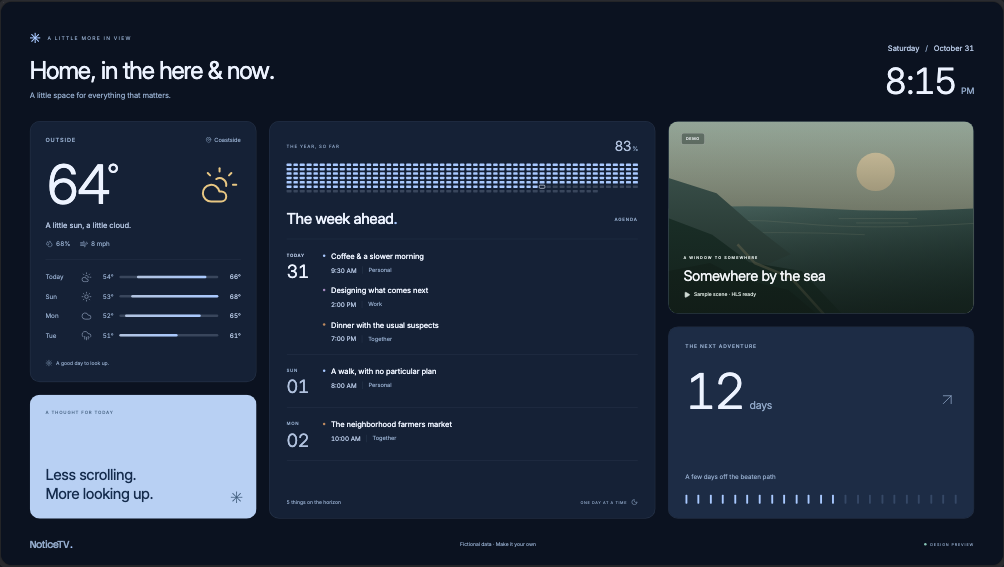
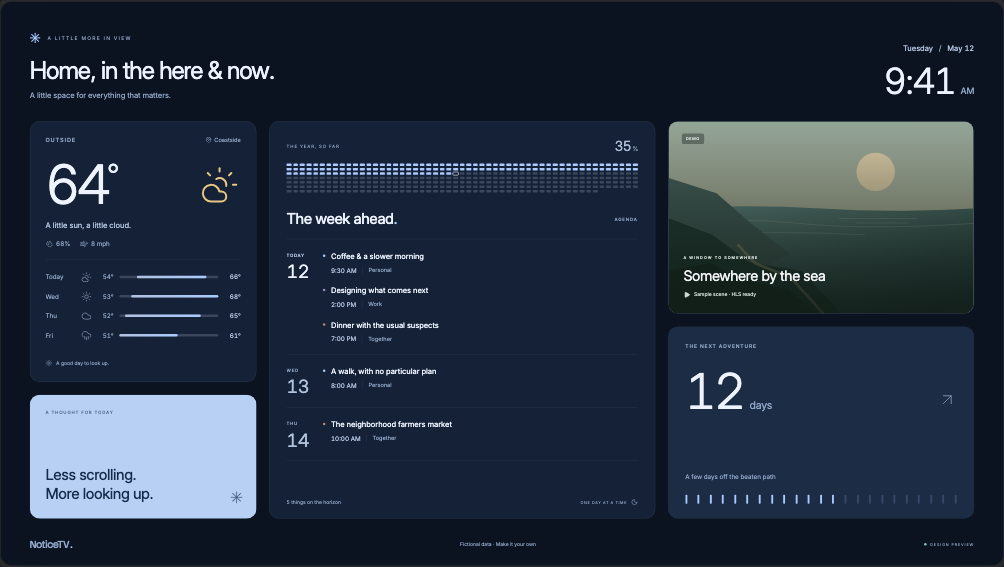
docs: refresh dashboard README with screenshots and diagrams

diff --git a/README.md b/README.md
@@ -2,71 +2,151 @@
 
 **A little more in view.**
 
-NoticeTV is a self-hosted dashboard for the screen in your room. Bring together the weather,
-your plans, a live video stream, and the things worth looking up for. Arrange it in a browser,
-preview the whole screen, and publish when it feels right.
+A self-hosted dashboard for the screen in your room. Bring together the weather, your plans,
+live video, and the things worth looking up for. Configure it from your phone or laptop,
+then publish it to your TV.
 
-![The NoticeTV editor with fictional weather, plans, an illustrated stream preview, a countdown, and a note.](docs/images/noticetv-editor.png)
+[![The NoticeTV display in Graphite, showing weather, an agenda, an illustrated stream, a note, and a countdown.](docs/images/noticetv-dashboard.png)](docs/images/noticetv-dashboard.png)
 
-## The dashboard
+_Screenshots use fictional demo data. The stream tile is an illustration; configured HLS streams play video._
 
-- **A visual editor.** Add widgets, choose their sizes, reorder them, and preview a 16:9 display.
-- **Themes.** Choose Graphite, Midnight, Paper, Ember, or Moss. Graphite is the neutral default;
-  Paper gives the dashboard a light appearance. The editor stays neutral.
-- **Weather.** Search for a location and connect current conditions and a five-day forecast from
-  [Open-Meteo](https://open-meteo.com/).
-- **HLS video.** Connect a browser-accessible `.m3u8` stream. Playback starts muted, fits its
-  widget, and retries after interruptions. Uses native HLS where available and hls.js elsewhere.
-- **An agenda, notes, countdowns, and world clocks.** Enter plans in NoticeTV, keep a thought in
-  view, or see the time somewhere else.
-- **Drafts and publishing.** Save work without changing the TV. Connected displays pick up a
-  publication within ten seconds and retain the running view during a server interruption.
-- **Screen pairing.** A single-use code connects a screen with viewing access. Editing requires
-  the server's editor key.
-- **Portable layouts.** Import and export a versioned JSON document.
+[Try it locally](#try-it-locally) · [Hosting guide](app/README.md) · [Install NoticeTV OS](docs/operating-system.md) · [Contribute](CONTRIBUTING.md)
 
-The `/demo` workspace uses fictional data and an original illustrated scene; it starts without external
-data requests. Real dashboards start with empty connections. The agenda is entered manually;
-external calendar sync and Home Assistant connections are not implemented in this version.
+## Make it your own
 
-## Run locally
+Choose widgets, connect their sources, and arrange the view. Change sizes, reorder widgets,
+and preview the whole screen before publishing. Export a layout to keep it or share it with a friend.
 
-Requires **Node.js 22.12 or newer** and npm. In the `app/` directory:
+[![The browser editor with a live dashboard canvas, widget controls, and the theme picker.](docs/images/noticetv-editor.png)](docs/images/noticetv-editor.png)
 
-```sh
-npm ci
-npm run dev
+| Widget          | What it brings to the screen                                                                                                             |
+| --------------- | ---------------------------------------------------------------------------------------------------------------------------------------- |
+| **Weather**     | Current conditions and a five-day forecast from [Open-Meteo](https://open-meteo.com/), with city search and Celsius/Fahrenheit settings. |
+| **Live video**  | HLS `.m3u8` streams, muted autoplay, fit/fill sizing, and recovery after playback interruptions.                                         |
+| **Agenda**      | Plans you enter in NoticeTV, a date rail, and a day-by-day view of the year's progress.                                                  |
+| **Note**        | Plain text for reminders, a message, or a thought for the day.                                                                           |
+| **Countdown**   | The days remaining until something you're looking forward to.                                                                            |
+| **World clock** | Another time zone, using your preferred 12- or 24-hour clock.                                                                            |
+
+[See the widget collection](docs/images/noticetv-widgets.png) · [See the phone editor](docs/images/noticetv-editor-phone.png)
+
+HLS streams must be reachable from the screen and permit browser playback from your dashboard's
+address. Media plays directly in the browser; NoticeTV does not proxy or transcode it.
+
+## Find your theme
+
+Five palettes cover the whole dashboard: text, cards, notes, charts, and display background.
+The editor stays neutral while you choose. Graphite is the default; cursor hiding is a separate
+display setting and is off by default.
+
+| Graphite · neutral charcoal                                                                                          | Paper · light surfaces                                                                                      |
+| -------------------------------------------------------------------------------------------------------------------- | ----------------------------------------------------------------------------------------------------------- |
+| [![The Graphite dashboard theme.](docs/images/noticetv-theme-graphite.png)](docs/images/noticetv-theme-graphite.png) | [![The Paper dashboard theme.](docs/images/noticetv-theme-paper.png)](docs/images/noticetv-theme-paper.png) |
+
+Also available: [Midnight](docs/images/noticetv-theme-midnight.png) for deep navy,
+[Ember](docs/images/noticetv-theme-ember.png) for warm charcoal and copper, and
+[Moss](docs/images/noticetv-theme-moss.png) for earthy greens.
+
+## How it fits together
+
+Run one NoticeTV server on your own machine. Open its editor on your phone or laptop and its
+display page on the TV. The server stores the dashboard; each browser loads weather and media
+directly from the configured sources.
+
+```mermaid
+flowchart LR
+    editor("Phone or laptop<br/>Dashboard editor") -->|"Save and publish"| server("NoticeTV server<br/>Saved dashboard")
+    server -->|"Published layout"| screen("Paired TV<br/>Browser or NoticeTV OS")
+    sources("Weather and HLS<br/>Data sources") -->|"Load directly"| screen
+    classDef default fill:#f5f6f8,stroke:#cfd6e2,color:#283346,stroke-width:1px,filter:none;
+    classDef host fill:#e5edf9,stroke:#b8c9e3,color:#233858;
+    class server host;
 ```
 
-Open **http://localhost:3000/demo** to explore the editor. To save a real dashboard, open
-**http://localhost:3000/** and enter the key printed by this command in another terminal:
+The dashboard works in a browser independently of the operating system. **NoticeTV OS** is the
+appliance option: it turns a mini PC into a display that boots straight into your dashboard and
+recovers from browser and network problems.
 
-```sh
-npm run access-key
+## From draft to display
+
+1. **Build the view.** Choose widgets, sources, a layout, and a theme.
+2. **Preview or save a draft.** Keep working without changing the published screen.
+3. **Publish.** Connected screens pick up the new view within ten seconds.
+4. **Connect a screen.** Open your server's `/display` page on the TV and enter the code from
+   **Connect a screen** in the editor. Pairing can happen before or after the first publication.
+
+```mermaid
+flowchart LR
+    edit("Edit dashboard") --> draft("Save draft")
+    edit --> preview("Preview the draft")
+    edit -->|"Publish"| live("Published dashboard")
+    live --> screens("Paired screens update")
+    classDef default fill:#f5f6f8,stroke:#cfd6e2,color:#283346,stroke-width:1px,filter:none;
+    classDef published fill:#e5edf9,stroke:#b8c9e3,color:#233858;
+    class live published;
 ```
 
-The server binds to loopback by default. For Docker, access from another device, HTTPS,
-configuration, and the production build, see **[the dashboard guide](app/README.md)**.
+Editing requires the server's editor key. A pairing code gives a screen viewing access to the
+published dashboard. Codes work once and expire after five minutes. Use the address and code
+shown by your own server.
 
-## The TV appliance
+<img src="docs/images/noticetv-pairing.png" alt="The Connect a screen dialog showing a display address and a six-digit pairing code." width="490" />
 
-**NoticeTV OS** turns an Intel or AMD mini PC into an unattended display. It boots straight into
-a web dashboard, recovers from browser and network problems, and installs Linux security updates.
-It can show a NoticeTV dashboard or any other web page.
+The running display retains its last published layout during a server interruption and retries
+the connection. Starting or reloading a display still requires the server.
 
-The dashboard app is currently installed separately; the OS image does not bundle it. Existing
-OS installations and image releases keep their existing behavior.
+## Try it locally
 
-See **[the OS installation guide](docs/operating-system.md)** for the USB installer, hardware
-requirements, settings, and recovery behavior. Installing the OS erases the selected drive.
+Requires **Node.js 22.12 or newer** and npm. From a checkout of this repository:
+
+```sh
+npm --prefix app ci
+npm --prefix app run dev
+```
+
+Open **http://localhost:3000/demo** to explore the editor and sample widgets. The demo is temporary;
+use **Export layout** to keep a configuration you make there.
+
+To save a real dashboard, open **http://localhost:3000/**. In a second terminal, get the editor key:
+
+```sh
+npm --prefix app run access-key
+```
+
+Enter that key in the editor, connect your sources, and publish.
+
+The default server accepts connections from this computer. Before connecting a TV or phone,
+configure its network address using the [hosting guide](app/README.md#access-from-another-device).
+The guide also covers [Docker](app/README.md#docker), HTTPS, persistent storage, and backups.
+
+## Add the TV appliance
+
+NoticeTV OS runs on an Intel or AMD mini PC connected to a TV. It starts Chromium full screen,
+recovers from browser and network problems, and installs Linux security updates. It can show
+a NoticeTV dashboard or any other web page.
+
+**The app and OS are installed separately.** The OS image does not currently bundle the dashboard
+server. Install the server on a machine of your choice, then point the display at its `/display` page.
+
+See the **[OS installation guide](docs/operating-system.md)** for the USB installer, hardware
+requirements, and appliance settings. Installing the OS erases the selected drive.
+
+## Current scope
+
+This is early software with one dashboard per server and multiple paired screens. Real dashboards
+start with empty source connections. Agenda events are entered manually; Home Assistant
+authentication and external calendar synchronization are not implemented in this version.
 
 ## Contributing
 
-NoticeTV is early software. Contributions should include clear behavior, appropriate local
-verification, and documentation. Read **[CONTRIBUTING.md](CONTRIBUTING.md)** for the development
-workflow and **[AGENTS.md](AGENTS.md)** for repository conventions.
+Read **[CONTRIBUTING.md](CONTRIBUTING.md)** for the development workflow and **[AGENTS.md](AGENTS.md)**
+for repository conventions. The [dashboard guide](app/README.md) describes the application structure,
+configuration, and checks. Tests use local fixtures rather than real homes, cameras, or live services.
+
+The screenshots are captured from the running app. See **[visual asset sources](docs/images/README.md)**
+for the capture command and diagram sources.
 
 ## License
 
-NoticeTV is free and open source under the **[GNU AGPL v3](LICENSE)**. Bundled fonts and
-dependencies retain their respective licenses; see [third-party notices](app/THIRD_PARTY_NOTICES.md).
+NoticeTV is free and open source under the **[GNU AGPL v3](LICENSE)**. Fonts and dependencies retain
+their respective licenses; see [third-party notices](app/THIRD_PARTY_NOTICES.md).

diff --git a/docs/images/README.md b/docs/images/README.md
@@ -1,0 +1,37 @@
+# Documentation visuals
+
+The main README shows the current dashboard application. `docs/operating-system.md` uses the
+separate appliance images and installer screenshots.
+
+## Dashboard screenshots
+
+From `app/`, with the locked dependencies installed:
+
+```sh
+npm run build
+npx playwright install chromium
+npm run screenshots
+```
+
+The capture script starts its own loopback server with a temporary data directory and key.
+It captures the actual editor, display preview, five themes, widget collection, phone editor,
+and pairing dialog. The date is fixed, the agenda and weather are fictional, and the video tile
+is the app's original illustration. The pairing dialog uses a fixed example code and expiry.
+Every external browser request is blocked. The browser,
+server, and temporary data are removed when capture finishes.
+
+The script writes ten PNGs into this directory. Review them after interface changes, then commit
+the updated images alongside the relevant documentation. The screenshots contain no data from a
+real installation. `NOTICETV_DOCS_PORT` selects another local port if the default, 3002, is busy.
+
+## Diagrams
+
+The two diagrams are Mermaid code blocks in the root `README.md`; GitHub renders them directly.
+They describe the server/editor/display relationships and the distinction between drafts,
+previews, and publication. Keep those blocks with the documentation they explain.
+
+## Appliance images
+
+`render.sh` builds the OS installation visuals from the HTML files in `src/` and screenshots
+from the existing VM tools. Its header documents the inputs. These assets are separate from
+the dashboard capture command and do not contact a real appliance.

diff --git a/AGENTS.md b/AGENTS.md
@@ -24,7 +24,7 @@ show the NoticeTV dashboard, NoticeOS's Wall, or any URL. The OS image does not 
 | `scripts/` | tools run from a developer's machine, e.g. `install-over-ssh.sh` |
 | `brand/` | the boot splash source: the lockup page, its font, the renderer |
 | `docs/` | tested hardware and its quirks; troubleshooting; how the image and installer are built |
-| `docs/images/` | the README's images and their sources; `render.sh` makes them from VM screenshots. `badges/` are shields.io badges saved into the repo: linked live, GitHub's image proxy times out on shields.io and shows them broken |
+| `docs/images/` | documentation images and provenance; `npm run screenshots` in `app/` captures the dashboard, `render.sh` renders appliance visuals from VM screenshots. Mermaid diagrams live in the root README. `badges/` are saved shields.io badges |
 
 ## Conventions
 

diff --git a/app/README.md b/app/README.md
@@ -193,6 +193,7 @@ To use an installed Google Chrome instead of downloading Playwright Chromium:
 PLAYWRIGHT_CHANNEL=chrome npm run test:browser
 ```
 
-Screenshots and traces are written to ignored `test-results/`. The main README's image comes
-from the demo-rendering test. See [fixture provenance](tests/fixtures/README.md) and
-[third-party notices](THIRD_PARTY_NOTICES.md).
+Test screenshots and traces are written to ignored `test-results/`. Run `npm run screenshots`
+after building the app to refresh the public documentation images from an isolated local server.
+See [visual asset sources](../docs/images/README.md), [fixture provenance](tests/fixtures/README.md),
+and [third-party notices](THIRD_PARTY_NOTICES.md).
